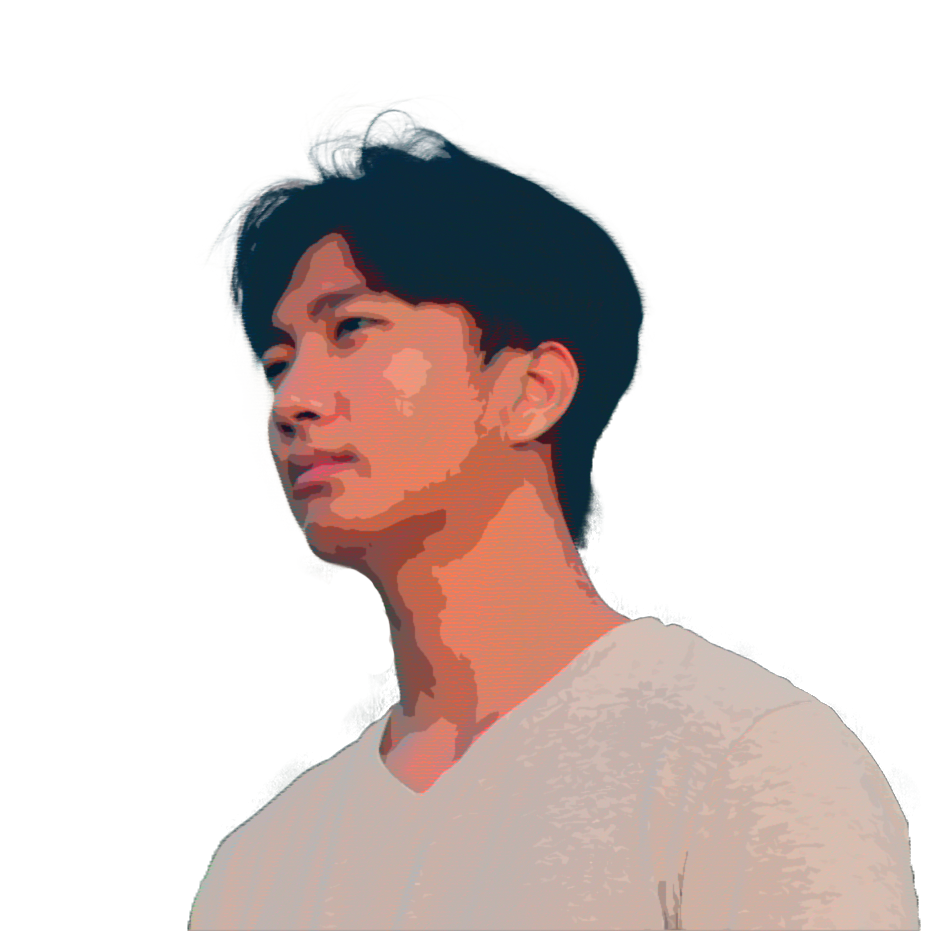
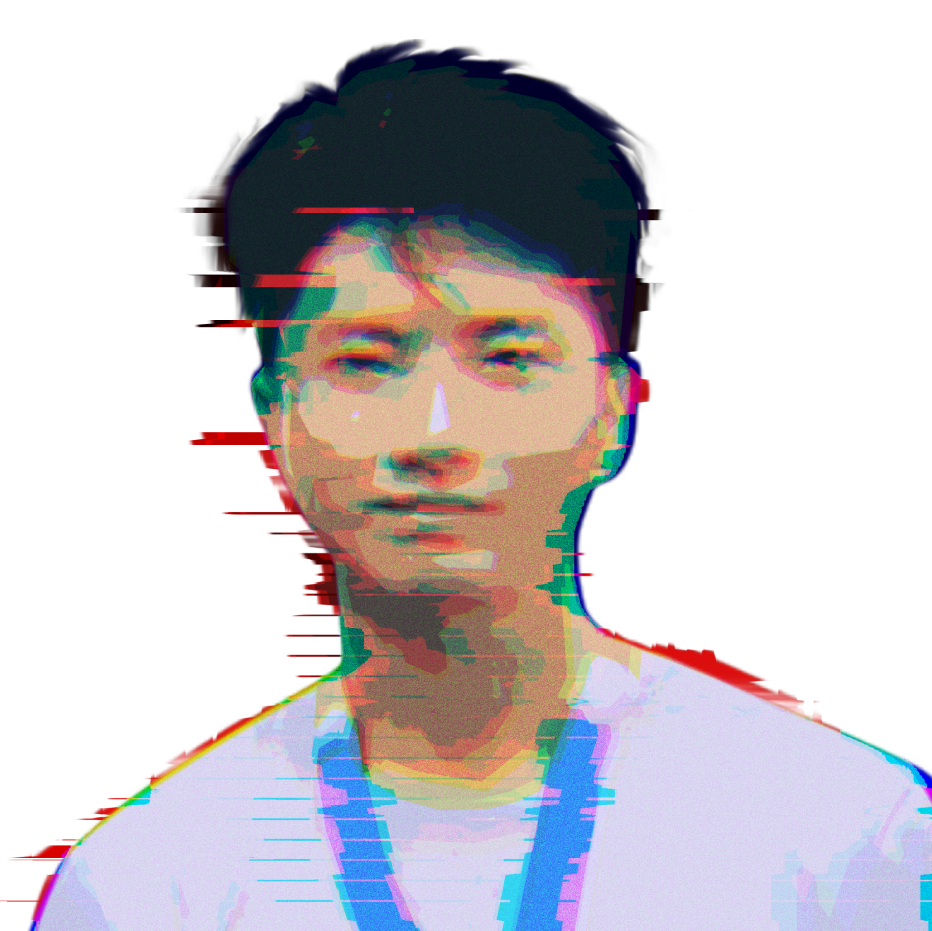
update homepage

diff --git a/src/components/home/Home.js b/src/components/home/Home.js
@@ -2,7 +2,7 @@ import Style from './Home.module.scss';
 // import me from '../../img/self.png';
 import { Box } from "@mui/material";
 import classNames from 'classnames';
-import me from '../../img/portrait.png';
+import me from '../../img/self.png';
 import { info } from "../../info/Info";
 import EmojiBullet from "./EmojiBullet";
 import SocialIcon from "./SocialIcon";

diff --git a/src/info/Info.js b/src/info/Info.js
@@ -44,7 +44,7 @@ export const info = {
         {
             //laptop emoji
             emoji: '💻',
-            text: "Working at Mercury Studio"
+            text: "Unity, Cocos"
         },
         {
             emoji: "📧",
